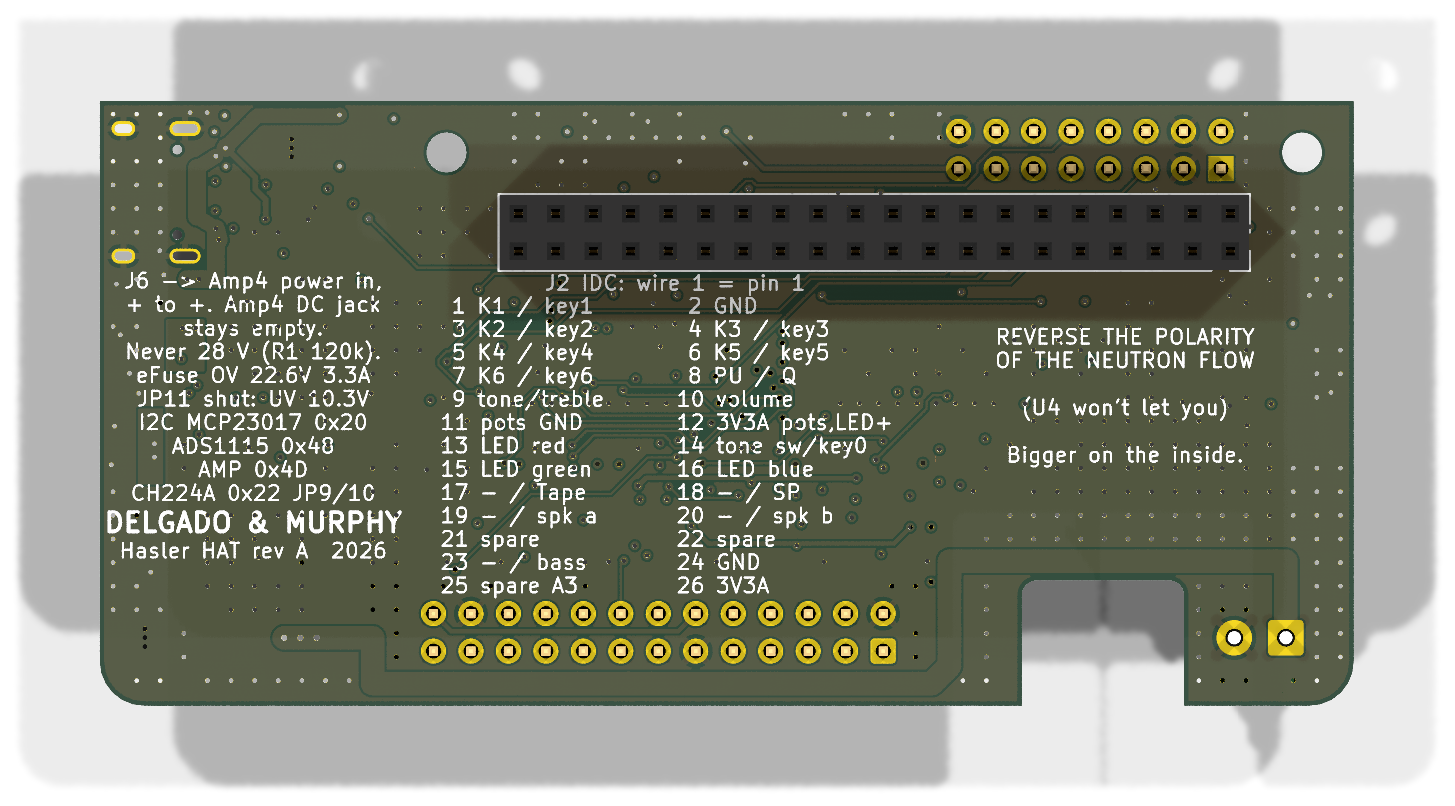
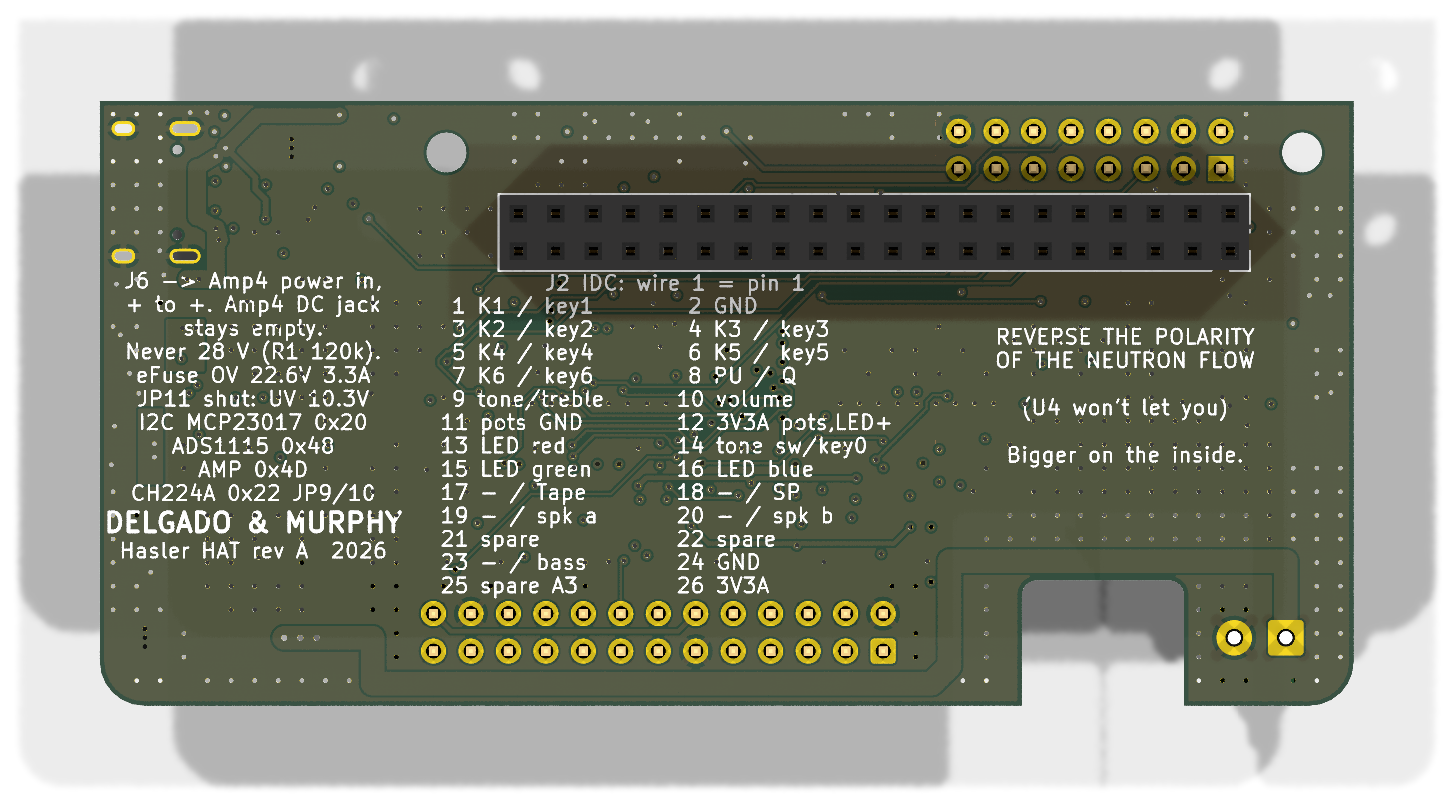
HAT: order status, V-cut rails and how to break them off; renders with the KF350 J6
Claude-Session: https://claude.ai/code/session_014wovV18Ypx4LXt9k8BSCRk

diff --git a/hardware/hat/ORDERING.md b/hardware/hat/ORDERING.md
@@ -3,6 +3,35 @@
 Everything in `fab/` is generated: `gen/make_sch.py`, `gen/make_pcb.py`, `gen/make_fab.py`
 from `gen/design.py` (`gen/build.sh` runs them all). Design decisions: `docs/hat/DESIGN.md`.
 
+## First order (rev A)
+
+JLC order **W2026101414256187**, placed 2026-10-14: 5 boards, 4 layers, assembled on the top
+side ($208.02 with shipping). PCB Y3-4278125A, PCBA SMT026101460923.
+
+- JLC's copy of the Gerbers is byte-identical to `fab/` at commit 37161f0. Their production file
+  changed only the usual things: etch compensation, unused inner pads removed, a few GND slivers
+  trimmed, and copper pulled back from 0.35 to 0.40 mm along the V-cut edges.
+- DFM review (14 Oct): no warnings. Their engineer turned U7–U12 (SRV05-4) from our 270° to 0°,
+  which is right (see "Assembly options"); `make_fab.py` now gives 0° (commit ec2388c).
+- JLC asked whether J6 faced the right way; the answer was yes (wire entry to the board edge,
+  + on the left). J6 now has a KF350 footprint so the question can't come up again (c1b134c).
+  That changed only the top silkscreen; the boards being built have the old Phoenix outline.
+- The commits after 37161f0 change only fab data for a reorder, not the boards on order.
+
+**When the boards arrive:** break off the rails (below), solder J1, then follow "Bring-up". Still
+untested on real hardware: everything, in particular the eFuse start-up with the Amp4 and Pi
+attached (step 4) and whether the CH224A falls back to 12 or 15 V when a charger offers no 20 V.
+
+## Breaking off the rails
+
+Snapping a V-cut flexes the board right at the edge, and parts sit close to both lines: the Qwiic
+connector's pads (0.4 mm), the PD/20V LEDs (0.8 mm), the CH224A and the test-point row (about 1 mm).
+
+- Hold the board itself flat in a vise with soft jaws, the score line just above them.
+- Bend the rail away with pliers, a little at a time, along its whole length; or first deepen
+  the groove with a few passes of a knife so it breaks with almost no force.
+- Never snap it by hand. Afterwards, look at J5's pads and the two LEDs under a loupe.
+
 ## Files to upload
 
 | JLCPCB step | File |
@@ -27,7 +56,7 @@ from `gen/design.py` (`gen/build.sh` runs them all). Design decisions: `docs/hat
 | Mark on PCB | **Remove Mark** (the board has no placeholder for the order number) |
 | Confirm production file | Yes (€0.94): JLC's engineers check the files and you approve before fabrication |
 | Edge | One notch in the bottom edge (over the Amp4's capacitor): it's in the outline, no extra option |
-| Edge rails | The board is under JLC's 70 mm assembly minimum and has parts near every edge, so JLC adds rails: **on the two 85 mm sides only** (never left/right: the USB-C overhangs the right edge), tab-routed rather than V-cut, with fiducials on the rails. If the order form asks, pick that; otherwise say it in the order note |
+| Edge rails | The board is under JLC's 70 mm assembly minimum and has parts near every edge, so JLC adds rails: **on the two 85 mm sides only** (never left/right: the USB-C overhangs the right edge), with fiducials on the rails. We asked for tab-routing; on the first order JLC made 15 mm **V-cut** rails (panel 85 × 71 mm). That works, but see "Breaking off the rails" below. If the order form asks, pick the long sides; otherwise say it in the order note |
 | Via-in-pad | Three GND vias sit in the CH224A's exposed pad. If "Epoxy filled & capped" is offered free or cheap, take it; "Plugged" is acceptable (low-power part, GND pad) |
 
 After the upload, open JLC's **Gerber viewer** once and check that the drill holes sit in their
